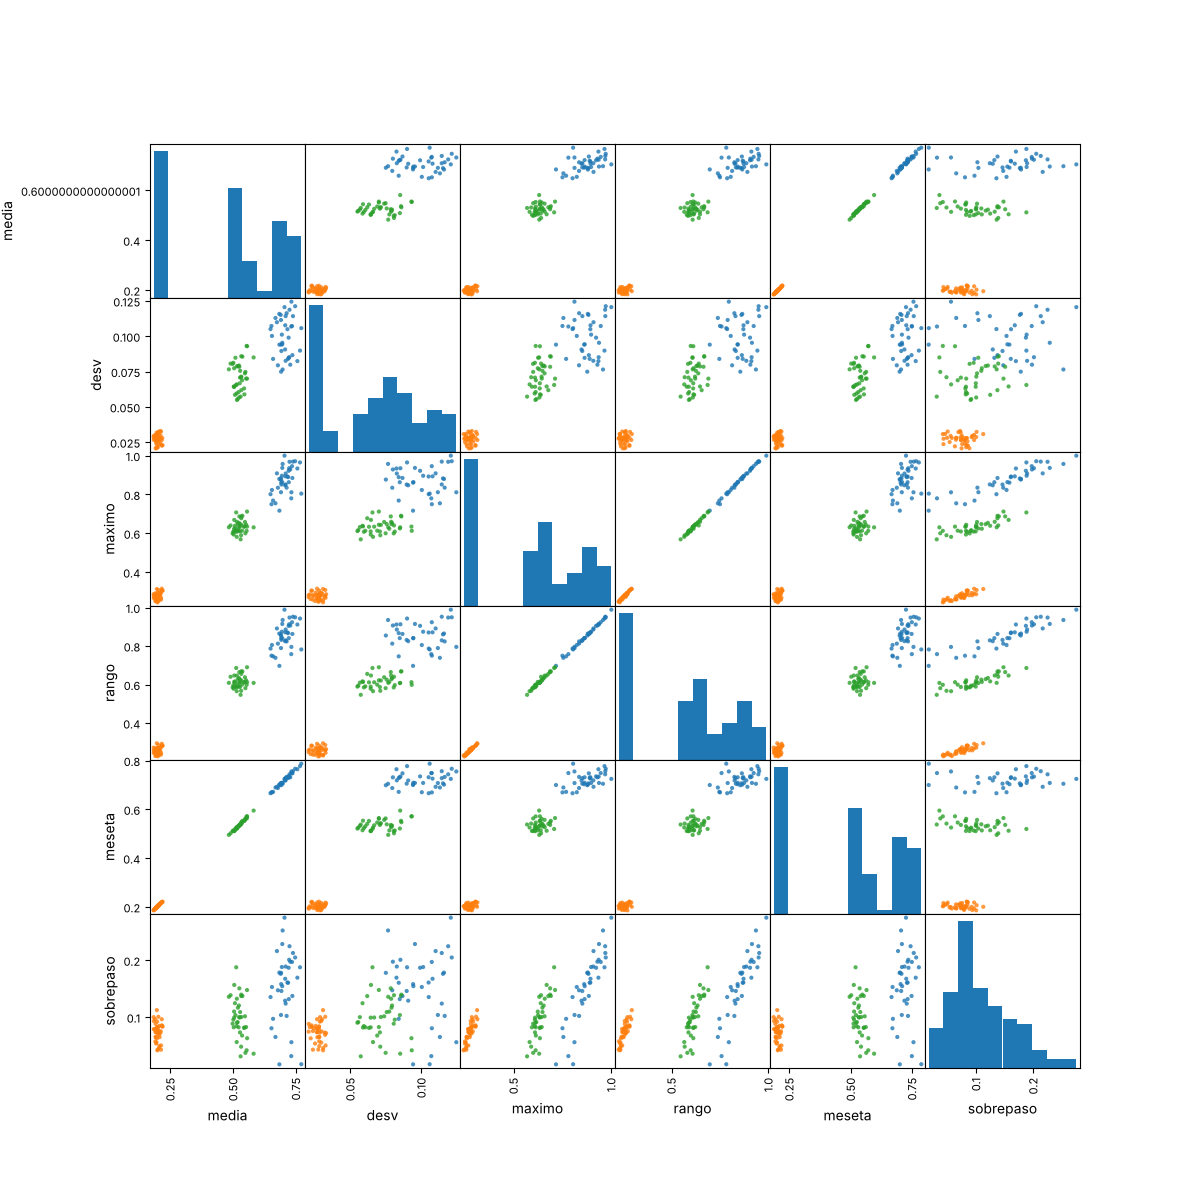
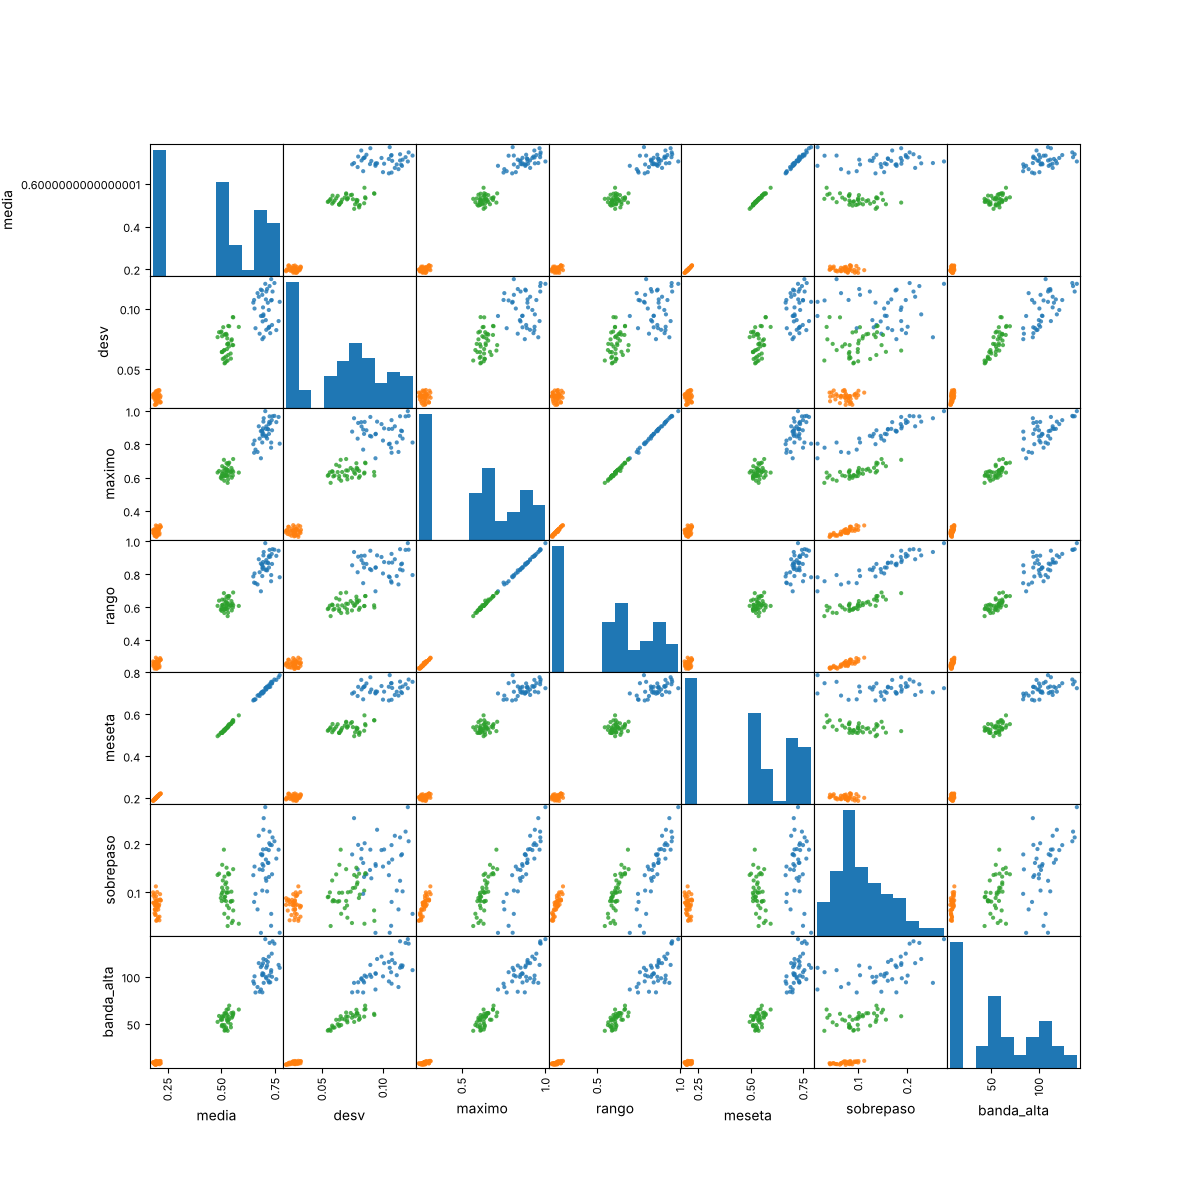
s06 bloque 1: nyquist y resolucion en frecuencia

diff --git a/codigo/features.py b/codigo/features.py
@@ -1,18 +1,27 @@
 """
-Semana 5: caracteristicas en el dominio del tiempo -> datos/features.csv (una fila por ventana)
+Caracteristicas por ventana -> datos/features.csv (una fila por ventana)
+Semana 5: dominio del tiempo.  Semana 6: dominio de la frecuencia (FFT).
+calcular_features() la usan tambien control.py, pca.py, clustering.py y autoencoder.py,
+para que todos calculen exactamente lo mismo.
 Uso (desde la raiz del repo):  python codigo/features.py
 """
 import os
 import numpy as np
 import pandas as pd
 
+FS = 50.0           # Hz (200 muestras en 4 s). Nyquist = 25 Hz
+BANDA_CORTE = 3.0   # Hz: abajo esta el escalon del peso, arriba el rebote del impacto
 UMBRAL = 0.05       # valor normalizado a partir del cual "hay pieza" (para duracion)
 
-# Las calculo todas, pero estas NO entran al modelo (ver BITACORA semana 5):
+# Las calculo todas, pero estas NO entran al modelo (ver BITACORA semanas 5 y 6):
 DESCARTADAS = [
     'minimo',             # siempre ~0.02: todas las ventanas empiezan en la linea base
     'energia',            # repite a la media (es casi media al cuadrado)
     'duracion',           # ~196 en todas: la pieza se queda encima toda la ventana
+    'f_dominante',        # salta entre 0.25 y 9 Hz sin patron: es ruido, no fisica
+    'centroide',          # ~7.2 Hz en las tres clases: no separa
+    'energia_espectral',  # = banda_baja + banda_alta, informacion repetida
+    'banda_baja',         # es el escalon del peso: repite a la media
 ]
 
 
@@ -31,6 +40,14 @@ def calcular_features(x):
     # propias del dominio: el peso ya asentado y cuanto se pasa el golpe de ese peso
     fila['meseta'] = np.median(x[len(x) // 2:])
     fila['sobrepaso'] = fila['maximo'] - fila['meseta']
+    # ---- frecuencia (semana 6) ----
+    espectro = np.abs(np.fft.rfft(x))[1:]
+    frecuencias = np.fft.rfftfreq(len(x), 1 / FS)[1:]
+    fila['f_dominante'] = frecuencias[np.argmax(espectro)]
+    fila['centroide'] = np.sum(frecuencias * espectro) / np.sum(espectro)
+    fila['energia_espectral'] = np.sum(espectro ** 2)
+    fila['banda_baja'] = np.sum(espectro[frecuencias < BANDA_CORTE] ** 2)
+    fila['banda_alta'] = np.sum(espectro[frecuencias >= BANDA_CORTE] ** 2)
     return fila
 
 
@@ -88,4 +105,34 @@ if __name__ == '__main__':
                                figsize=(12, 12), diagonal='hist', alpha=0.8)
     plt.savefig('figuras/scatter_matrix.png', dpi=100)
 
-    print("Figuras: features.png, scatter_matrix.png")
+    # Espectro de una ventana por clase (figuras/espectro.png) y promedio por clase
+    fig, (a1, a2) = plt.subplots(1, 2, figsize=(12, 4))
+    for c in clases:
+        ventanas = datos[datos['etiqueta'] == c].pivot(index='t', columns='ventana', values='valor')
+        ventanas = ventanas.ffill().bfill()
+        fr = np.fft.rfftfreq(len(ventanas), 1 / FS)[1:]
+        esp = np.abs(np.fft.rfft(ventanas.values, axis=0))[1:]
+        a1.plot(fr, esp[:, 0], label=c, color=colores[c])
+        a2.plot(fr, esp.mean(axis=1), label=c, color=colores[c])
+    for a, titulo in ((a1, 'Una ventana por clase'), (a2, 'Promedio por clase')):
+        a.axvline(BANDA_CORTE, color='k', ls='--', lw=1)
+        a.set_yscale('log')
+        a.set_xlabel('frecuencia (Hz)')
+        a.set_title(titulo)
+        a.grid(alpha=0.3)
+        a.legend()
+    a1.set_ylabel('magnitud')
+    plt.tight_layout()
+    plt.savefig('figuras/espectro.png', dpi=150)
+
+    # Una de frecuencia contra una de tiempo (figuras/frecuencia_vs_tiempo.png)
+    plt.figure(figsize=(6, 5))
+    for c, g in features.groupby('etiqueta'):
+        plt.scatter(g['meseta'], g['banda_alta'], label=c, color=colores[c])
+    plt.xlabel('meseta (tiempo)')
+    plt.ylabel(f'energia de {BANDA_CORTE:.0f} a 25 Hz (frecuencia)')
+    plt.legend()
+    plt.grid(alpha=0.3)
+    plt.tight_layout()
+    plt.savefig('figuras/frecuencia_vs_tiempo.png', dpi=150)
+    print("Figuras: features.png, scatter_matrix.png, espectro.png, frecuencia_vs_tiempo.png")

diff --git a/README.md b/README.md
@@ -25,3 +25,6 @@ En esta semana limpié los datos. Primero quité las lecturas que eran imposible
 
 ## Semana 5
 En esta semana saqué las características de cada ventana, o sea, unos cuantos números que resumen la señal en lugar de usar las 200 muestras. Me quedé con la media, la desviación, el máximo, el rango, la meseta (el peso cuando ya se estabilizó) y el sobrepaso (cuánto se pasa el golpe del peso final). Quité el mínimo, la energía y la duración porque salían casi iguales en los tres materiales. La que mejor separa es la meseta, porque es prácticamente el peso.
+
+## Semana 6
+En esta semana revisé la señal en frecuencia con la FFT. Muestreo a 50 Hz, así que lo más rápido que puedo ver son 25 Hz. Como la señal es casi un escalón (cae y se queda), la frecuencia casi no ayudó. Solo me quedé con la energía de 3 a 25 Hz, que viene del rebote cuando cae la pieza. Al final quedaron 7 características y dejé el archivo `datos/features.csv` como versión final (120 ventanas, 40 de cada material).
